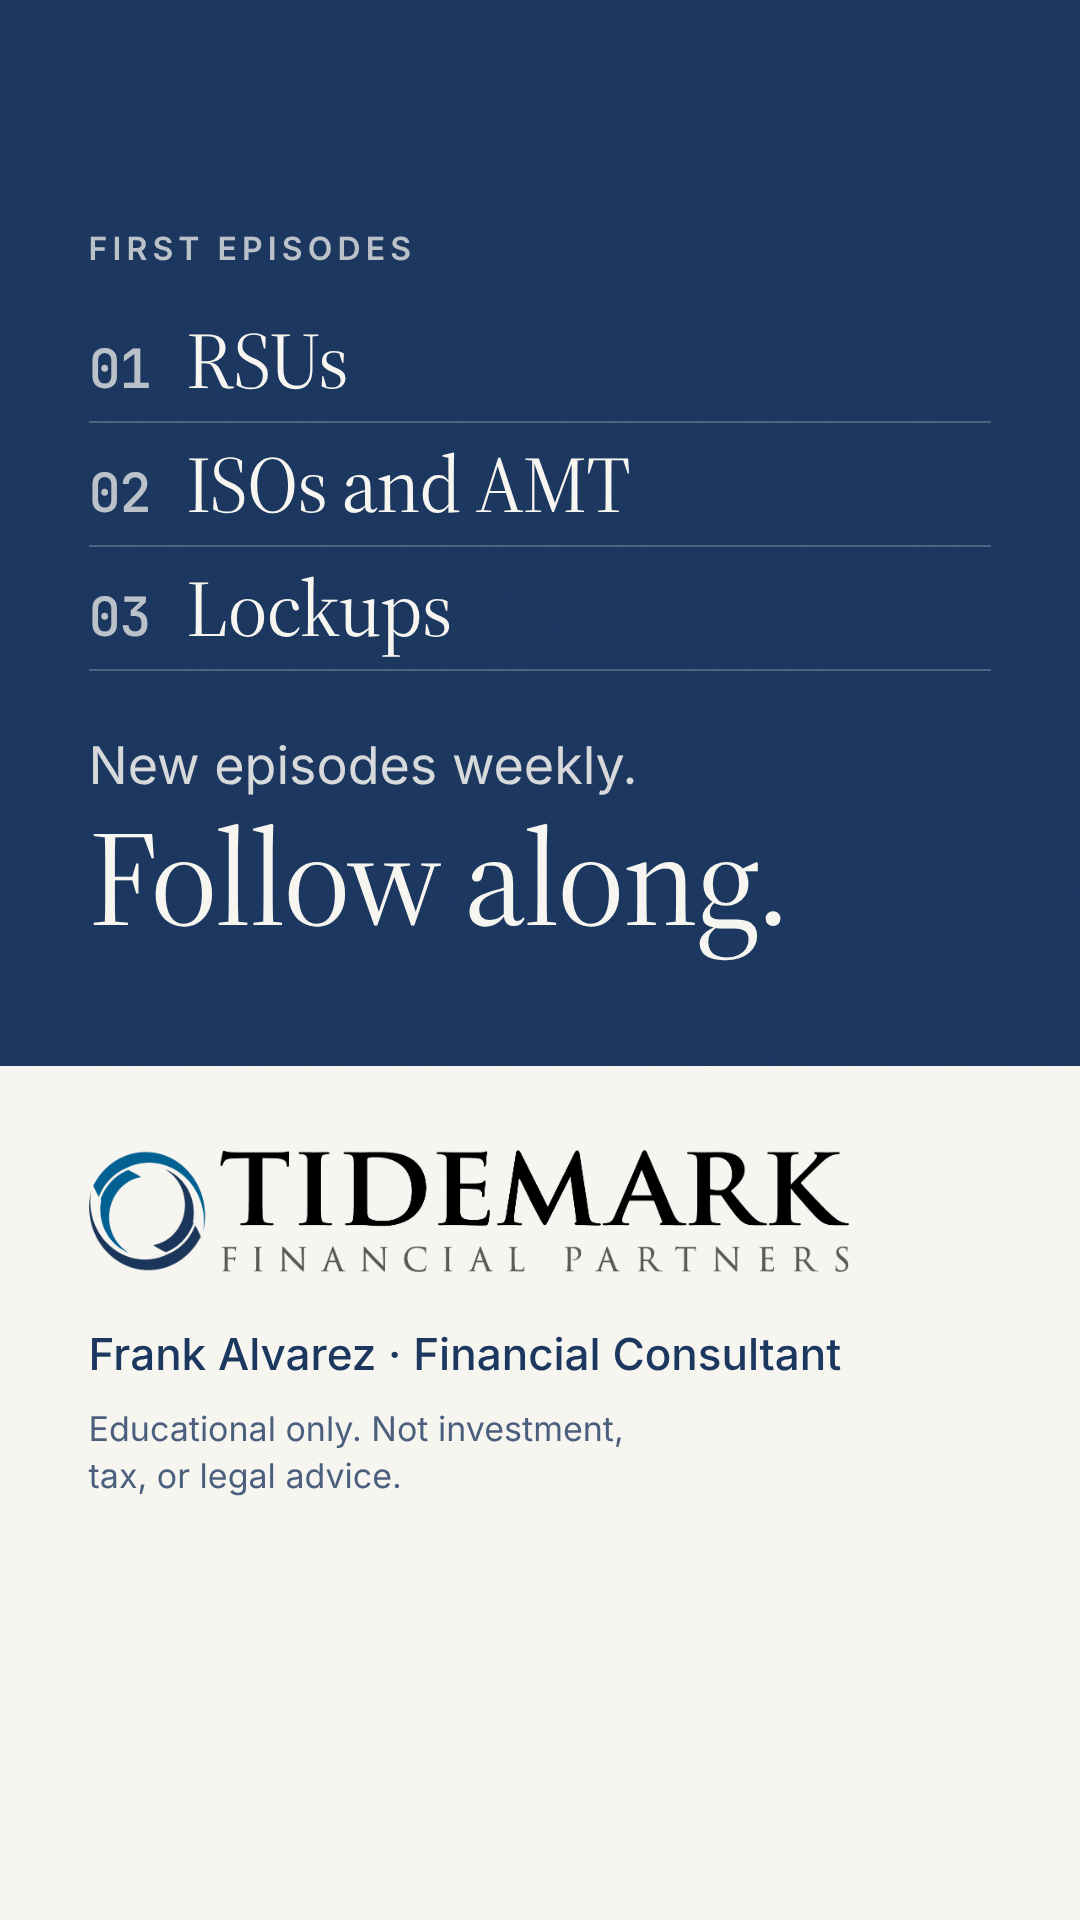
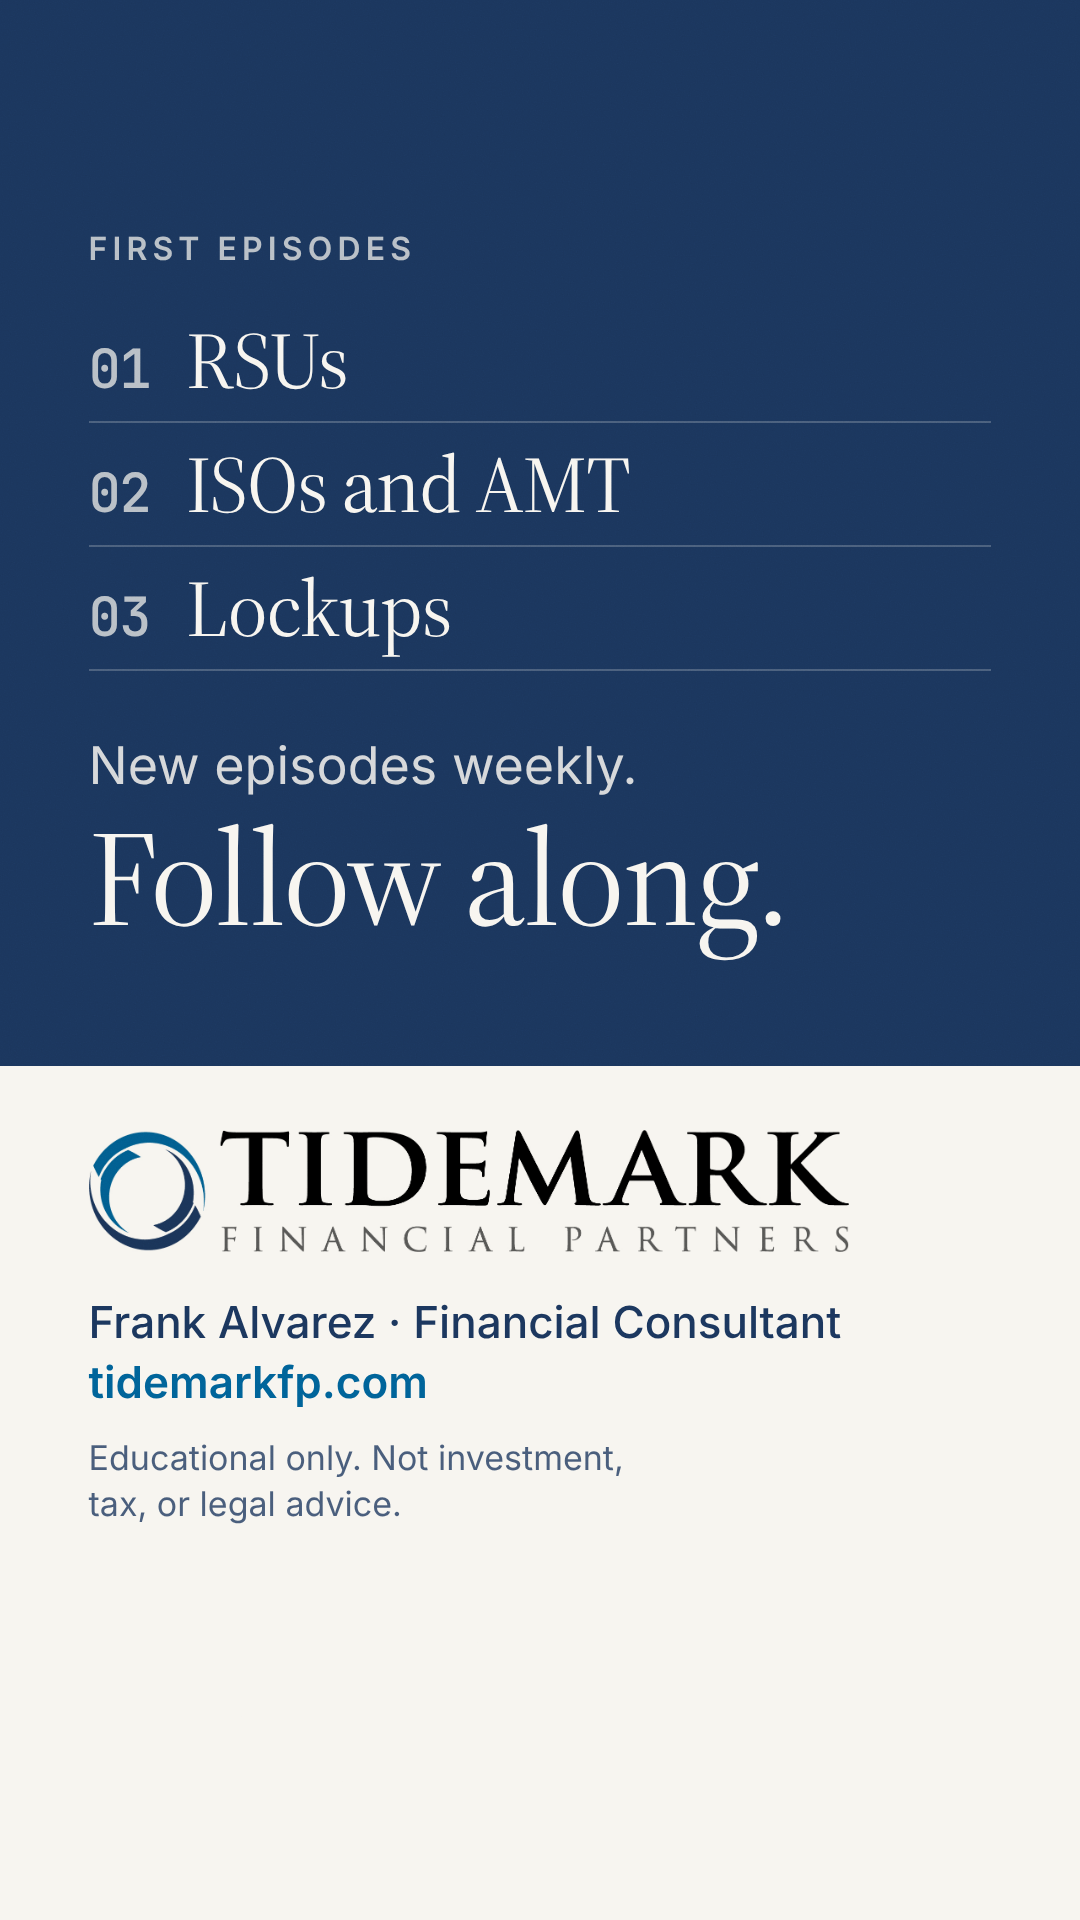
Promo end card: add firm website
Claude-Session: https://claude.ai/code/session_0195rJ7cdrnWiRm4EtHPvYcL

Changed region(s): [[0.0611, 0.5625, 0.7944, 0.8125]]

diff --git a/promo/src/scenes/EndCard.tsx b/promo/src/scenes/EndCard.tsx
@@ -82,7 +82,7 @@ export const EndCard: React.FC = () => {
 						position: 'absolute',
 						left: portrait ? marginX : marginX * 0.7,
 						right: portrait ? marginX : marginX * 0.7,
-						top: portrait ? px(84) : 0,
+						top: portrait ? px(64) : 0,
 						bottom: portrait ? undefined : 0,
 						display: 'flex',
 						flexDirection: 'column',
@@ -94,9 +94,13 @@ export const EndCard: React.FC = () => {
 						src={staticFile(assets.logo)}
 						style={{width: logoW, height: logoW / LOGO_RATIO, mixBlendMode: 'multiply'}}
 					/>
-					<div style={{height: px(56)}} />
+					<div style={{height: px(44)}} />
 					<div style={{fontFamily: font.sans, fontSize: px(44), fontWeight: 500, color: color.navy, lineHeight: 1.2}}>
 						{e.credit}
+					</div>
+					<div style={{height: px(8)}} />
+					<div style={{fontFamily: font.sans, fontSize: px(44), fontWeight: 600, color: color.blue, lineHeight: 1.2}}>
+						{e.url}
 					</div>
 					<div style={{height: px(26)}} />
 					<div style={{fontFamily: font.sans, fontSize: px(34), lineHeight: 1.36, color: navyA(0.8)}}>

diff --git a/promo/src/copy.ts b/promo/src/copy.ts
@@ -49,6 +49,7 @@ export const copy = {
 		cadence: 'New episodes weekly.',
 		cta: 'Follow along.',
 		credit: 'Frank Alvarez · Financial Consultant',
+		url: 'tidemarkfp.com',
 		disclaimer: ['Educational only. Not investment,', 'tax, or legal advice.'],
 	},
 } as const;
